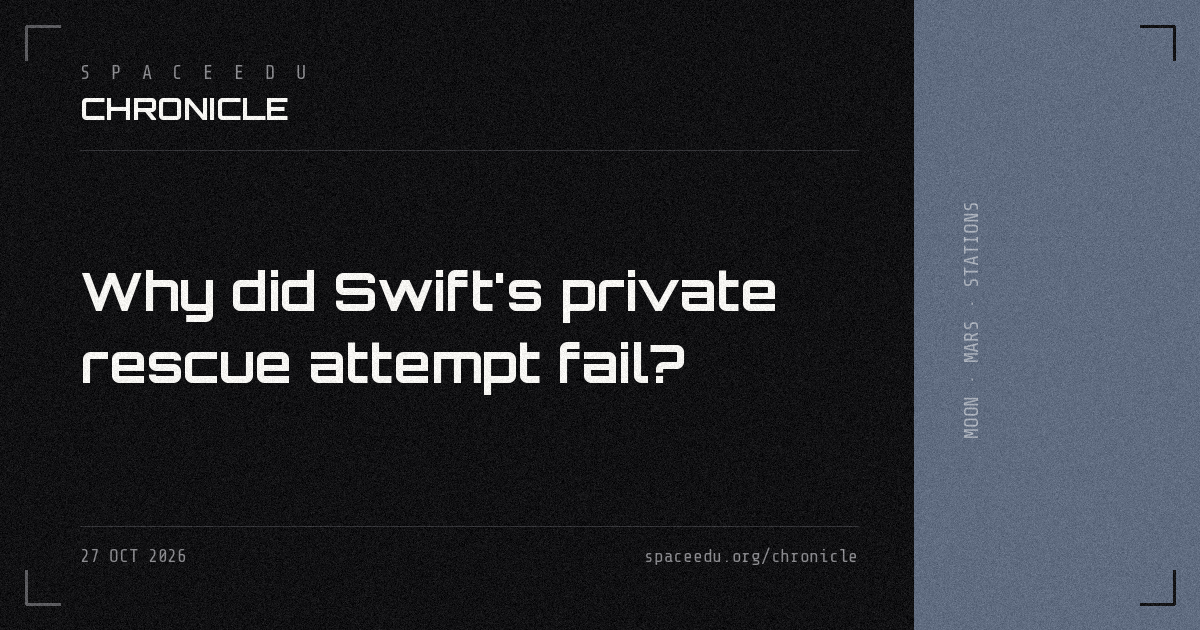
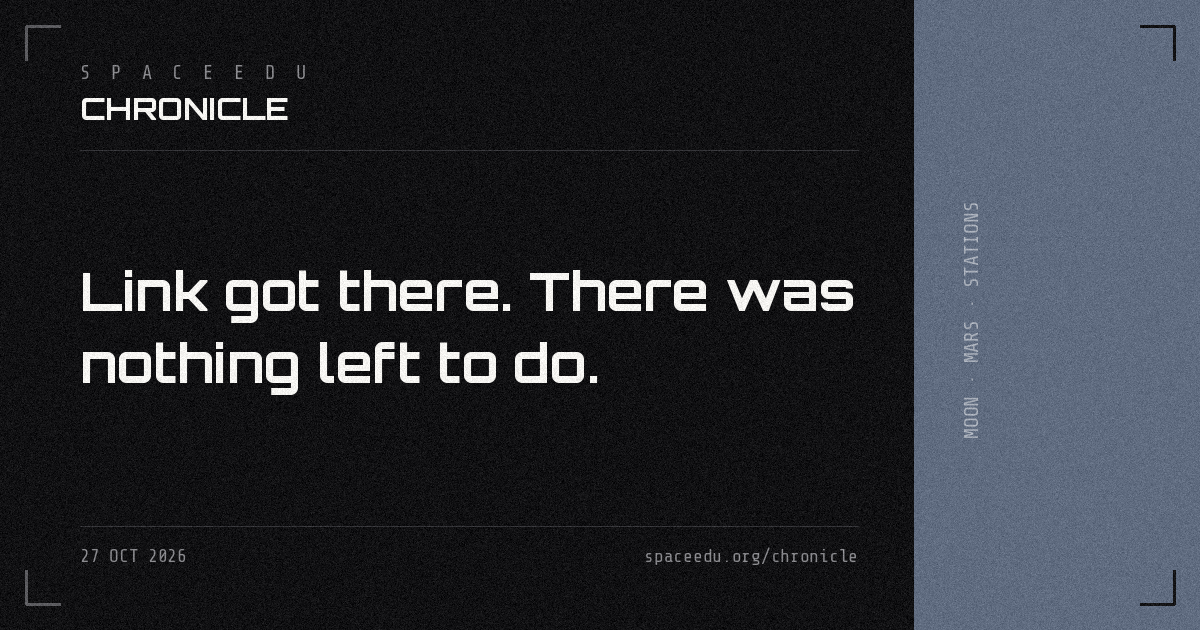
OG card: 2026-10-27

Changed region(s): [[0.0617, 0.4222, 0.7092, 0.5127], [0.0925, 0.5429, 0.5858, 0.6333]]

diff --git a/c/2026-10-27/index.html b/c/2026-10-27/index.html
@@ -7,15 +7,15 @@
 <meta property="og:type" content="website">
 <meta property="og:site_name" content="SpaceEdu Chronicle">
 <meta property="og:url" content="https://spaceedu.org/c/2026-10-27/">
-<meta property="og:title" content="Why did Swift&#x27;s private rescue attempt fail?">
+<meta property="og:title" content="Link got there. There was nothing left to do.">
 <meta property="og:description" content="SpaceEdu Chronicle · 2026-10-27">
 <meta property="og:image" content="https://spaceedu.org/c/2026-10-27/card.png">
 <meta property="og:image:width" content="1200">
 <meta property="og:image:height" content="630">
 <meta name="twitter:card" content="summary_large_image">
-<meta name="twitter:title" content="Why did Swift&#x27;s private rescue attempt fail?">
+<meta name="twitter:title" content="Link got there. There was nothing left to do.">
 <meta name="twitter:image" content="https://spaceedu.org/c/2026-10-27/card.png">
-<title>Why did Swift&#x27;s private rescue attempt fail?</title>
+<title>Link got there. There was nothing left to do.</title>
 <script>window.location.replace("https://spaceedu.org/chronicle/" + window.location.search);</script>
 </head>
 <body><a href="https://spaceedu.org/chronicle/">SpaceEdu Chronicle</a></body>
